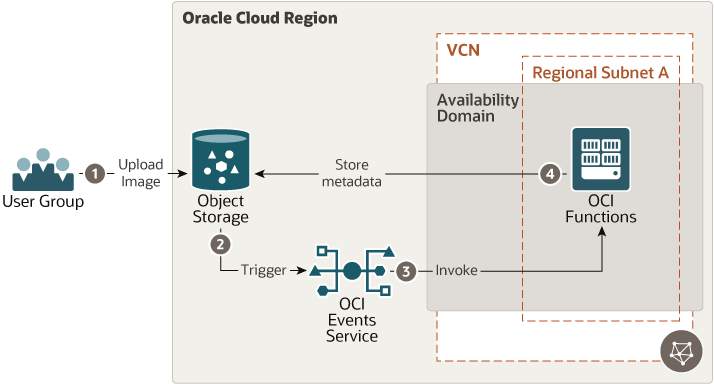
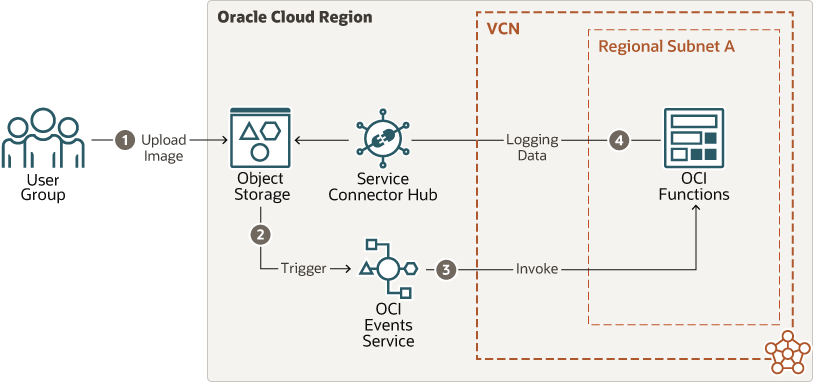
updated README and architecture diagram

Changed region(s): [[0.0, 0.0, 1.0, 1.0], [0.2465, 0.9791, 0.2773, 1.0]]

diff --git a/README.md b/README.md
@@ -128,7 +128,7 @@ module "oci-arch-fn-app" {
 }
 ```
 
-It is possible to deploy this architecture using an existing VCN and subnet. Please refer to the [examples](https://github.com/oracle-devrel/terraform-oci-arch-fn-app) folder.
+It is possible to deploy this architecture using an existing VCN and subnet. Please refer to the [examples](https://github.com/oracle-devrel/terraform-oci-arch-fn-app/examples/) folder.
 
 ## Architecture Diagram
 
